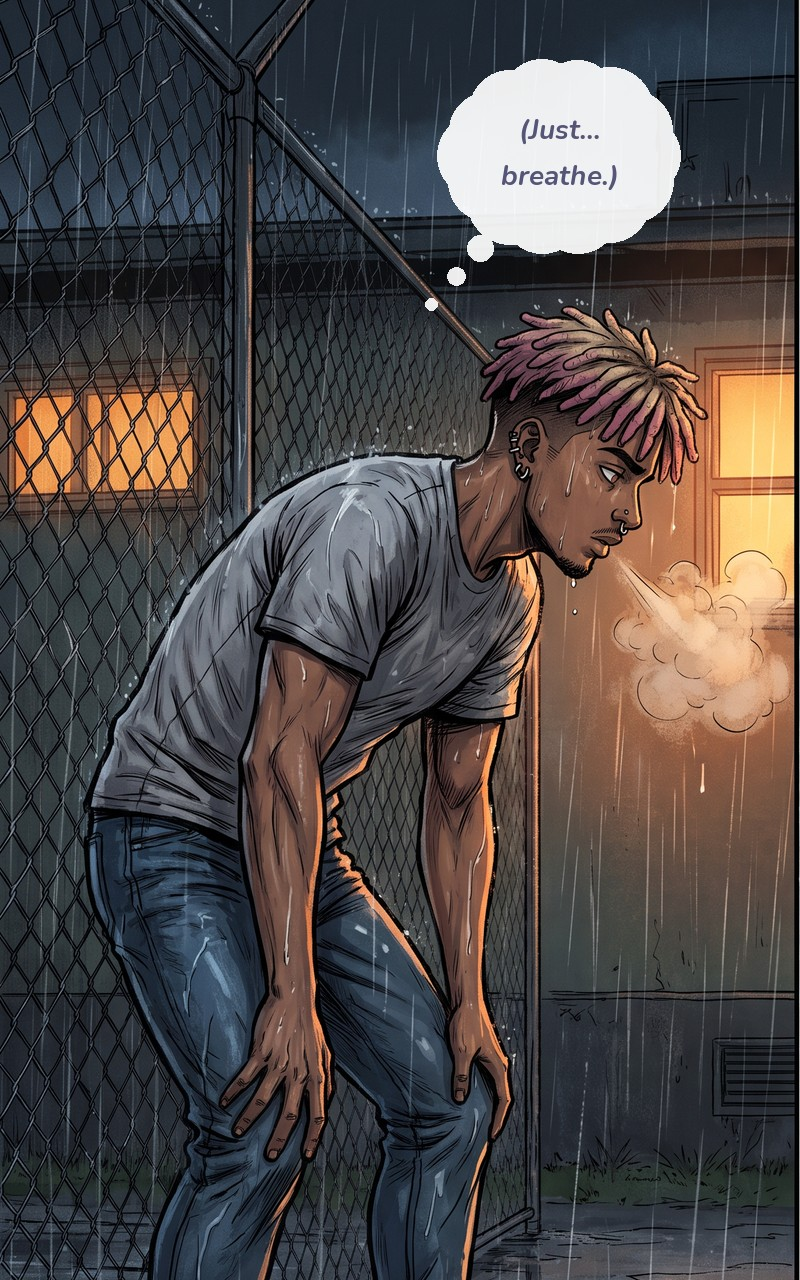
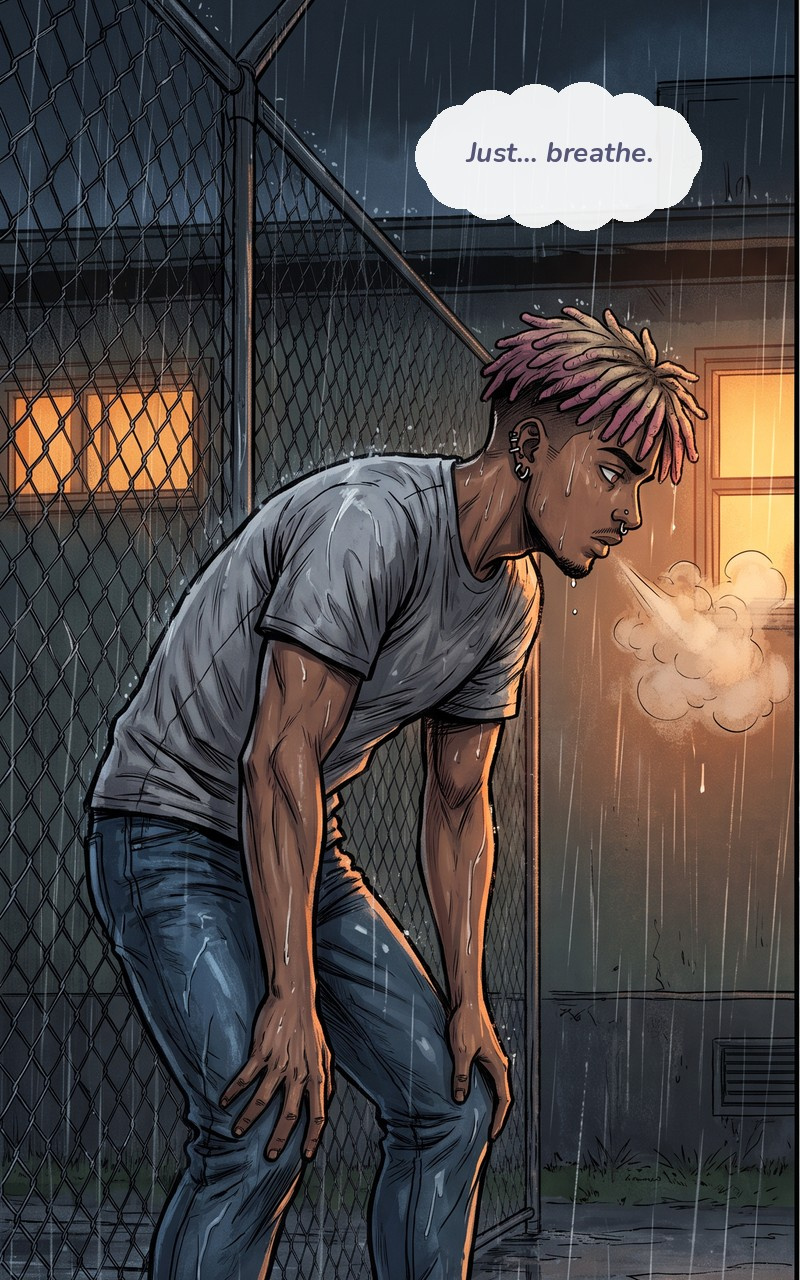
HOSHOKU vertical: 3c lettered to source, 14c dark top restored
- 3c: source bubble verified as a closed cloud with no tail/dot trail and
  no parentheses; removed the added trail and parentheses (thought vs
  speech stays UNRESOLVED)
- 14a: number stays blank (illegible in source)
- 14c: restored the source's dark top (shirtless was a generation error)
- Captions remain PROPOSED; credit hold on Ch. 1

Claude-Session: https://claude.ai/code/session_018WvB8YCnLixyatLMop9tAT

diff --git a/drafts/hoshoku-vol1-vertical/pipeline/mkspec.py b/drafts/hoshoku-vol1-vertical/pipeline/mkspec.py
@@ -13,7 +13,7 @@ spec+= [G(260),
  P('3a',[{'k':'caption','head':'BOOTCAMP // DAY 8','body':"Lights out. My head didn't get the memo.",'x':0.05,'y':0.04,'maxw':430},
          {'k':'broly','t':'Can’t… slow down…','x':0.66,'y':0.33,'tx':0.34,'ty':0.42,'maxw':220,'size':28}]), G(120),
  P('3b',[{'k':'caption','head':'02:13 AM // COURTYARD','body':'Needed air. Any air.','x':0.05,'y':0.05,'maxw':420}]), G(70),
- P('3c',[{'k':'thought','t':'(Just… breathe.)','x':0.7,'y':0.1,'tx':0.52,'ty':0.2,'maxw':190,'size':28}]), G(70),
+ P('3c',[{'k':'thought','t':'Just… breathe.','x':0.7,'y':0.1,'maxw':190,'size':28}]), G(70),
  P('3d',[{'k':'broly','t':'…I’m gonna—','x':0.74,'y':0.9,'tx':0.52,'ty':0.7,'maxw':220,'size':30}]), G(70),
  P('3e',[{'k':'shout','t':'Whoa! Easy—','x':0.3,'y':0.1,'tx':1.0,'ty':0.3,'size':34,'maxw':220}]), G(200),
  P('4a',[{'k':'caption','head':'PRE-BLACKOUT','body':'Last thing I remember clearly.','x':0.04,'y':0.04,'maxw':400},

diff --git a/drafts/hoshoku-vol1-vertical/README.md b/drafts/hoshoku-vol1-vertical/README.md
@@ -21,6 +21,17 @@ A vertical webtoon recreation of the existing manga (Canva `DAG9IhSY4Xo`, pages 
 
 Before and after for gates 2 and 4: `reference/gates_2_4_before_after.jpg`.
 
+### Final lettering and visual items (2026-09-26)
+
+| Item | Status | What was done |
+|---|---|---|
+| 3c bubble | ✅ **Lettered as in the source** | I isolated the bubble graphic (`MAGeHE3VgSo`) in a Canva draft that I then discarded. It is a **closed, scalloped cloud with no tail and no dot trail**, and the source text is **"Just… breathe."** with no parentheses. The vertical edition had added parentheses and a dot trail, and both are now removed. The cloud outline matches the source. Whether the line is a thought or speech is still **UNRESOLVED**: the source gives a cloud shape, but no trail or parentheses to confirm it. |
+| 14a number | ✅ **Left blank** | The number is unreadable in the source, so none was added. |
+| 14c clothing | ✅ **Dark top restored** | Edit pass using the original 14c as the reference. He now wears a plain dark charcoal crew-neck top, and nothing else changed (40 credits). See `reference/14c_before_after.jpg`. |
+
+**Credit hold:** no more credits will be spent on Chapter 1 until the remaining lettering decisions are made.
+
+
 ## Decisions applied (D'nuke, 2026-09-26)
 
 | Topic | Decision |
@@ -84,7 +95,7 @@ Captions are **PROPOSED** (Broly's voice). Everything else is carried over from 
 | 2e | CLACK, BANG!. Off-panel shout: "Eyes forward. Squeeze—" (verified) |
 | 3a | CAPTION `BOOTCAMP // DAY 8`: *Lights out. My head didn't get the memo.* Broly: "Can't… slow down…" (verified) |
 | 3b | CAPTION `02:13 AM // COURTYARD`: *Needed air. Any air.* |
-| 3c | Thought: "(Just… breathe.)" ⚠ |
+| 3c | Cloud bubble (as in the source; no trail): "Just… breathe." |
 | 3d | Broly: "…I'm gonna—" |
 | 3e | Off-panel (the arm's owner): "Whoa! Easy—" |
 | 4a | CAPTION `PRE-BLACKOUT`: *Last thing I remember clearly.* TSS. Off-panel: "Hold still." |
@@ -104,12 +115,12 @@ Captions are **PROPOSED** (Broly's voice). Everything else is carried over from 
 
 1. **2e:** ~~UNVERIFIED~~ **Resolved (gate 1):** the source text layer reads "Eyes forward. Squeeze—".
 2. **3a:** ~~UNVERIFIED~~ **Resolved (gate 3):** the source text layer reads "Can't… slow down…" in full.
-3. **3c:** the original shape was cloud-like with no dot trail, so the thought-vs-speech call is UNVERIFIED. It's lettered as a thought.
-4. **14a:** the original's tiny "#…" number is illegible, so it's **omitted** rather than guessed.
+3. **3c:** the source graphic is verified as a closed cloud with no trail, and the text is "Just… breathe." with no parentheses. It is lettered to match. Thought vs speech is UNRESOLVED.
+4. **14a:** the original's tiny "#…" number is illegible, so it stays **blank** (decided).
 5. **2b:** **Resolved (gate 2):** the invented "BROLY" name tape was removed.
 6. **2c:** **Resolved (gate 4):** the recruit now matches the source's short, swept, non-pink hair. His identity is UNRESOLVED and **not** assigned to Broly.
 7. **9d:** invented vial labels ("VACCINE", "MEDICINE") appeared and were removed with an edit pass (blank labels now).
-8. **14c:** Broly is shirtless at the sink (the original shows a dark top). Minor.
+8. **14c:** **Resolved:** the shirtless look was a generation error. The dark top from the source is restored.
 9. **Captions:** all caption *bodies* are new copy in Broly's voice (PROPOSED). The headers keep the original information.
 
 ## Credits
@@ -120,9 +131,10 @@ Captions are **PROPOSED** (Broly's voice). Everything else is carried over from 
 | Panels: pilot (8) + remaining (44) | 52 | 2,080 |
 | 9d label fix | 1 | 40 |
 | Gate 2 (2b name tape) + gate 4 (2c recruit) | 2 | 80 |
-| **Total** | **56** | **2,240** |
+| 14c dark top restored | 1 | 40 |
+| **Total** | **57** | **2,280** |
 
-- Balance: 8,507 → **6,267**.
+- Balance: 8,507 → **6,227**.
 - Model: Nano Banana Pro i2i at 2K, 40 credits each.
 - Title and end cards, black beats, lettering, and assembly were done locally: 0 credits.
 
@@ -142,4 +154,4 @@ Set `HOSHOKU_SOURCE_CAPTIONS=1` to render without the PROPOSED Broly-voice capti
 - **Gate 5:** approve the Broly-voice captions, or switch to source-only headers.
 - **Gate 6:** after the gates clear, re-upload the updated parts to Canva. Combining them still needs your OK.
 - **Gate 7:** Ch. 2 after the mirror scene is blocked on the story beats (E in the audit). Nothing past page 14 has been generated.
-- Open flags: 3c thought vs speech, the 14a number, and the 14c top.
+- Still open: whether 3c is a thought or speech (canon). Everything else from the source checks is resolved.

diff --git a/drafts/hoshoku-ch1-ch2-continuity-script.md b/drafts/hoshoku-ch1-ch2-continuity-script.md
@@ -248,7 +248,7 @@ Layout: a large top-left panel; two stacked panels top-right; two panels on the 
 - **Appearance / hair:** Same as 3-b.
 - **Action:** Hunched over, exhaling.
 - **Text / SFX:** "Just… breathe."
-- **Lettering:** Cloud-shaped bubble. Whether it is a thought or speech is **UNVERIFIED**: no clear dot chain is visible.
+- **Lettering:** **VERIFIED** (2026-09-26): the bubble graphic `MAGeHE3VgSo`, isolated in a Canva draft that was then discarded, is a closed, scalloped cloud with **no tail and no dot trail**. The text has no parentheses. Whether it is a thought or speech is **UNRESOLVED**: the cloud shape is the only cue.
 
 #### Panel 3-d
 
